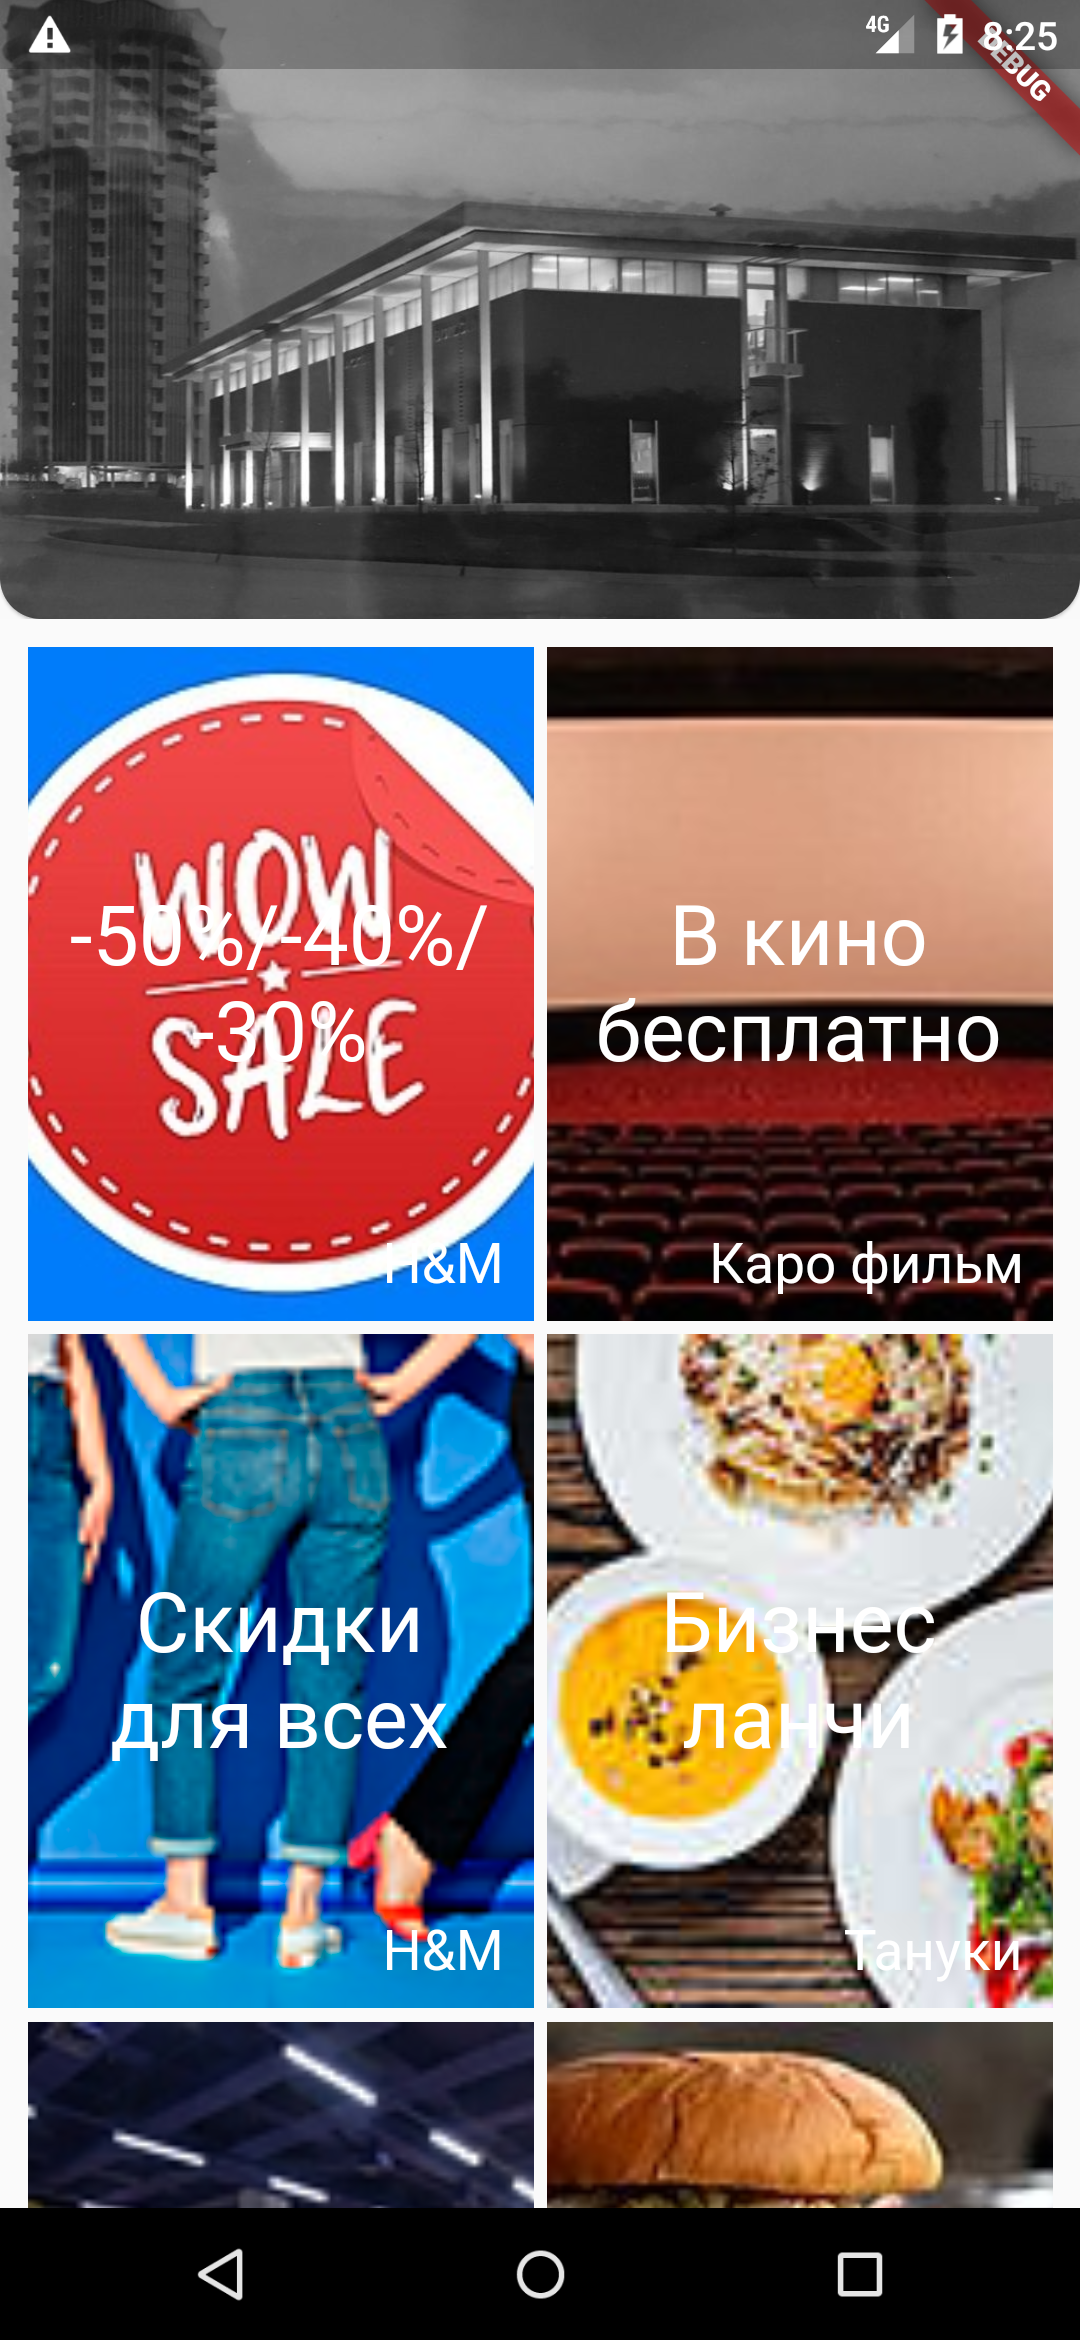
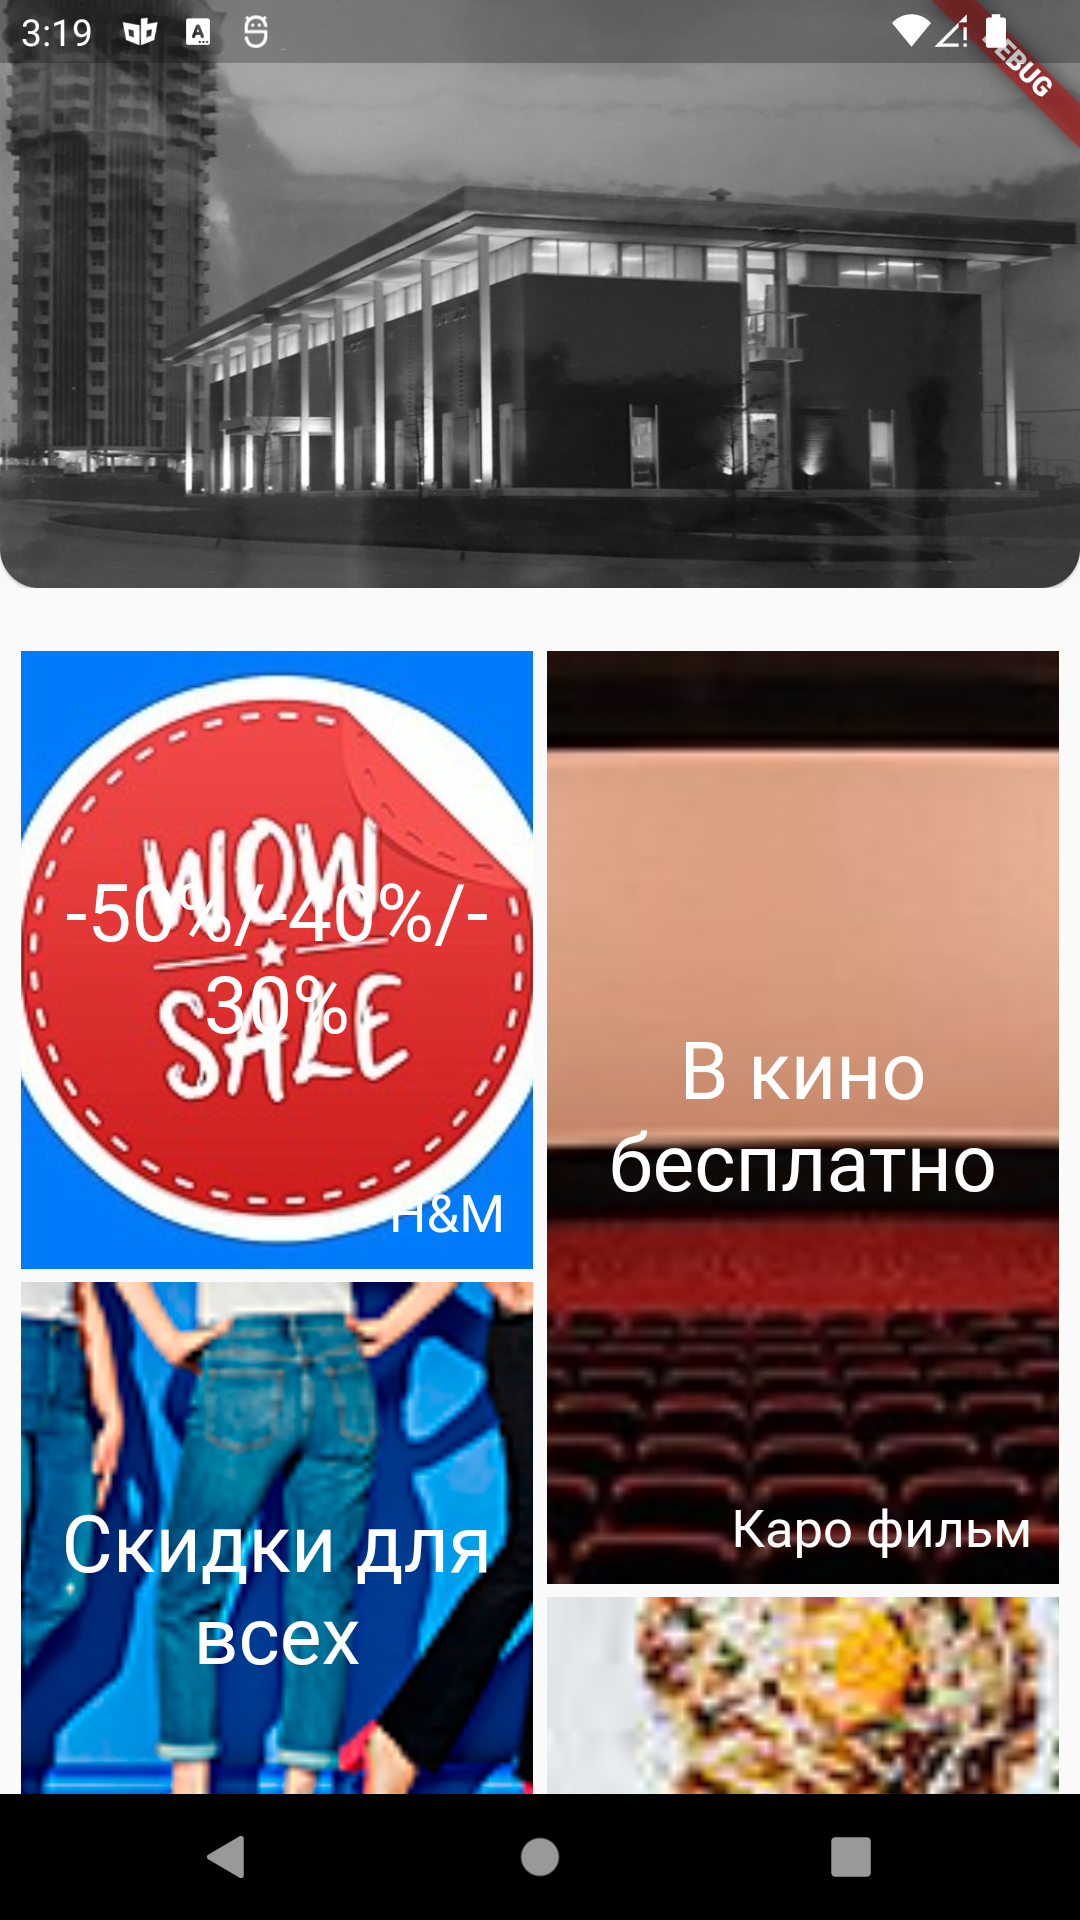
switch AvtionsWidget GridView to StaggeredGridView

diff --git a/lib/ui/actions/ActionsWidget.dart b/lib/ui/actions/ActionsWidget.dart
@@ -2,6 +2,7 @@
 import 'package:cached_network_image/cached_network_image.dart';
 import 'package:flutter/cupertino.dart';
 import 'package:flutter/material.dart';
+import 'package:flutter_staggered_grid_view/flutter_staggered_grid_view.dart';
 import 'package:junior_test/blocs/actions/ActionsQueryBloc.dart';
 import 'package:junior_test/blocs/base/bloc_provider.dart';
 import 'package:junior_test/model/RootResponse.dart';
@@ -80,41 +81,48 @@ class _ActionsWidgetState extends NewBasePageState<ActionsWidget> {
                 isLoading = true;
               }
             },
-            child: GridView.builder(
-              padding: EdgeInsets.all(10),
-              itemCount: currentPage == pagesTotal
-                  ? actionListInfo.length
-                  : actionListInfo.length + 1,
-              itemBuilder: (BuildContext context, int index) =>
-                  index >= actionListInfo.length
-                      ? Center(
-                          child: SizedBox(
-                            height: 25,
-                            width: 25,
-                            child: CircularProgressIndicator(strokeWidth: 1.5),
-                          ),
-                        )
-                      : ActionCardWIdget(
-                          id: actionListInfo[index].id,
-                          name: actionListInfo[index].name,
-                          shop: actionListInfo[index].shop,
-                          thumbnailUrl: actionListInfo[index].imgThumb,
-                          onTap: () {
-                            Navigator.of(context).push(
-                              MaterialPageRoute(
-                                  builder: (_) => ActionsItemWidget(),
-                                  settings: RouteSettings(
-                                    arguments: ActionsItemArguments(
-                                        actionListInfo[index].id),
-                                  )),
-                            );
-                          },
-                        ),
-              gridDelegate: SliverGridDelegateWithFixedCrossAxisCount(
-                crossAxisCount: 2,
-                childAspectRatio: 3 / 4,
-                crossAxisSpacing: 5,
-                mainAxisSpacing: 5,
+            child: Padding(
+              padding: const EdgeInsets.symmetric(horizontal: 8.0),
+              child: StaggeredGridView.builder(
+                itemCount: currentPage == pagesTotal
+                    ? actionListInfo.length
+                    : actionListInfo.length + 1,
+                gridDelegate: SliverStaggeredGridDelegateWithFixedCrossAxisCount(
+                  staggeredTileCount: currentPage == pagesTotal
+                      ? actionListInfo.length
+                      : actionListInfo.length + 1,
+                  staggeredTileBuilder: (index) {
+                    return StaggeredTile.count(1, index.isEven ? 1.2 : 1.8);
+                  },
+                  crossAxisCount: 2,
+                  crossAxisSpacing: 5,
+                  mainAxisSpacing: 5,
+                ),
+                itemBuilder: (BuildContext context, int index) =>
+                index >= actionListInfo.length
+                    ? Center(
+                  child: SizedBox(
+                    height: 25,
+                    width: 25,
+                    child: CircularProgressIndicator(strokeWidth: 1.5),
+                  ),
+                )
+                    : ActionCardWIdget(
+                  id: actionListInfo[index].id,
+                  name: actionListInfo[index].name,
+                  shop: actionListInfo[index].shop,
+                  thumbnailUrl: actionListInfo[index].imgThumb,
+                  onTap: () {
+                    Navigator.of(context).push(
+                      MaterialPageRoute(
+                          builder: (_) => ActionsItemWidget(),
+                          settings: RouteSettings(
+                            arguments: ActionsItemArguments(
+                                actionListInfo[index].id),
+                          )),
+                    );
+                  },
+                ),
               ),
             ),
           ),

diff --git a/lib/ui/actions/ActionCardWidget.dart b/lib/ui/actions/ActionCardWidget.dart
@@ -15,10 +15,10 @@ class ActionCardWIdget extends StatelessWidget {
 
   const ActionCardWIdget(
       {@required this.id,
-      @required this.name,
-      @required this.shop,
-      @required this.thumbnailUrl,
-      @required this.onTap});
+        @required this.name,
+        @required this.shop,
+        @required this.thumbnailUrl,
+        @required this.onTap});
 
   @override
   Widget build(BuildContext context) {
@@ -40,7 +40,7 @@ class ActionCardWIdget extends StatelessWidget {
                 child: Text(
                   name,
                   style: TextStyle(
-                      fontSize: MyDimens.titleBig, color: MyColors.white),
+                    fontSize: MyDimens.titleBig, color: MyColors.white,),
                   textAlign: TextAlign.center,
                 ),
               ),
